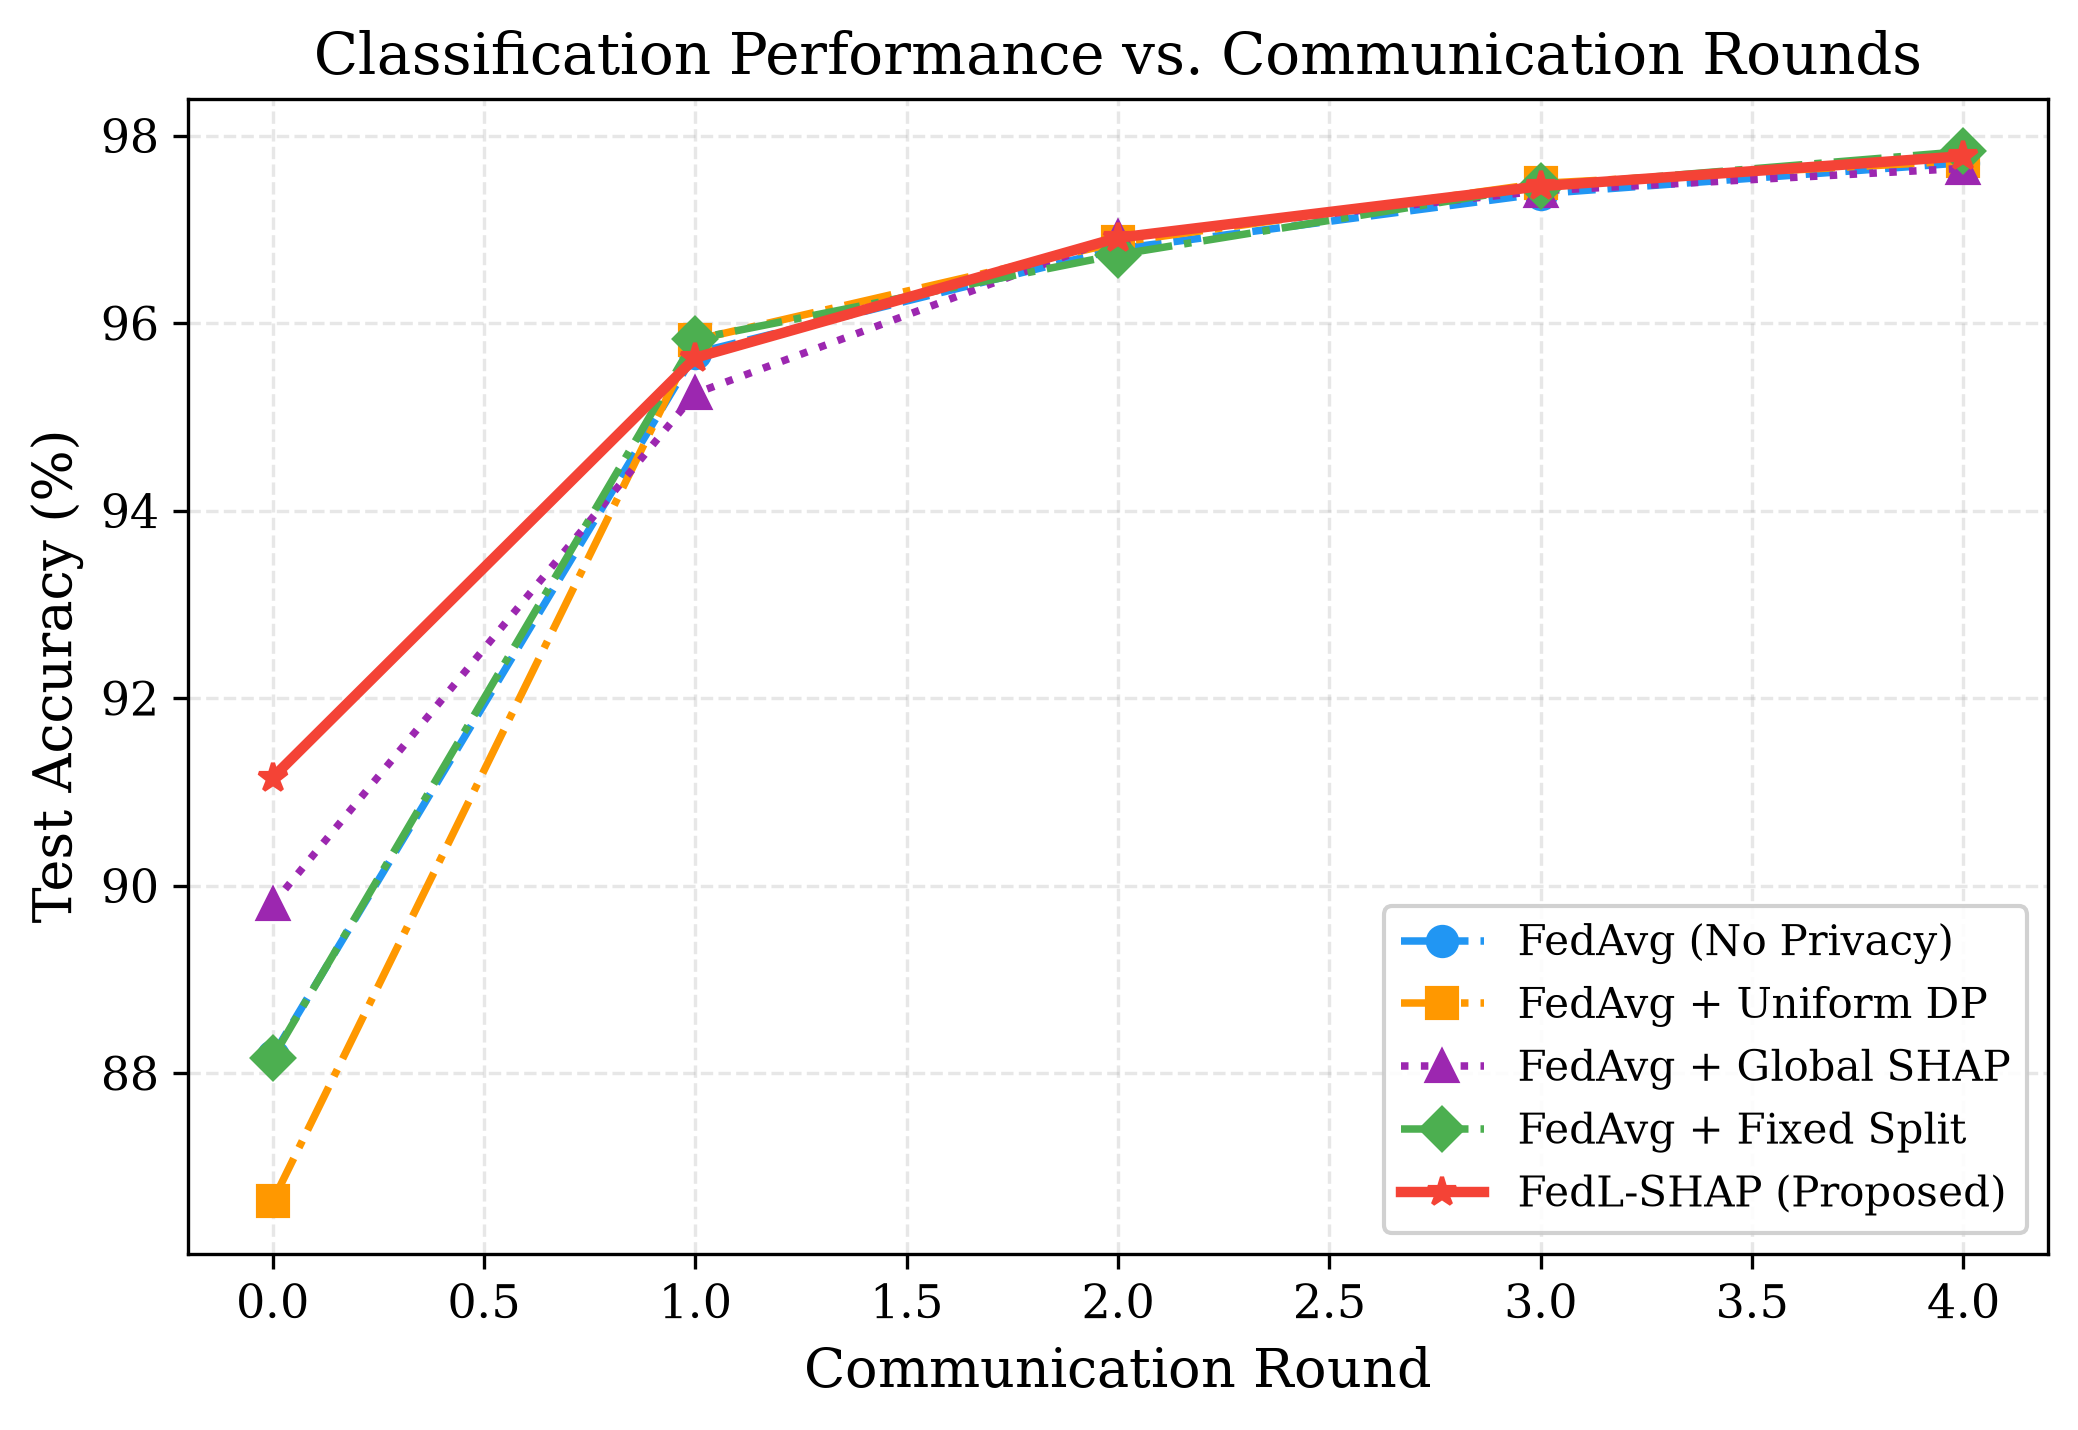
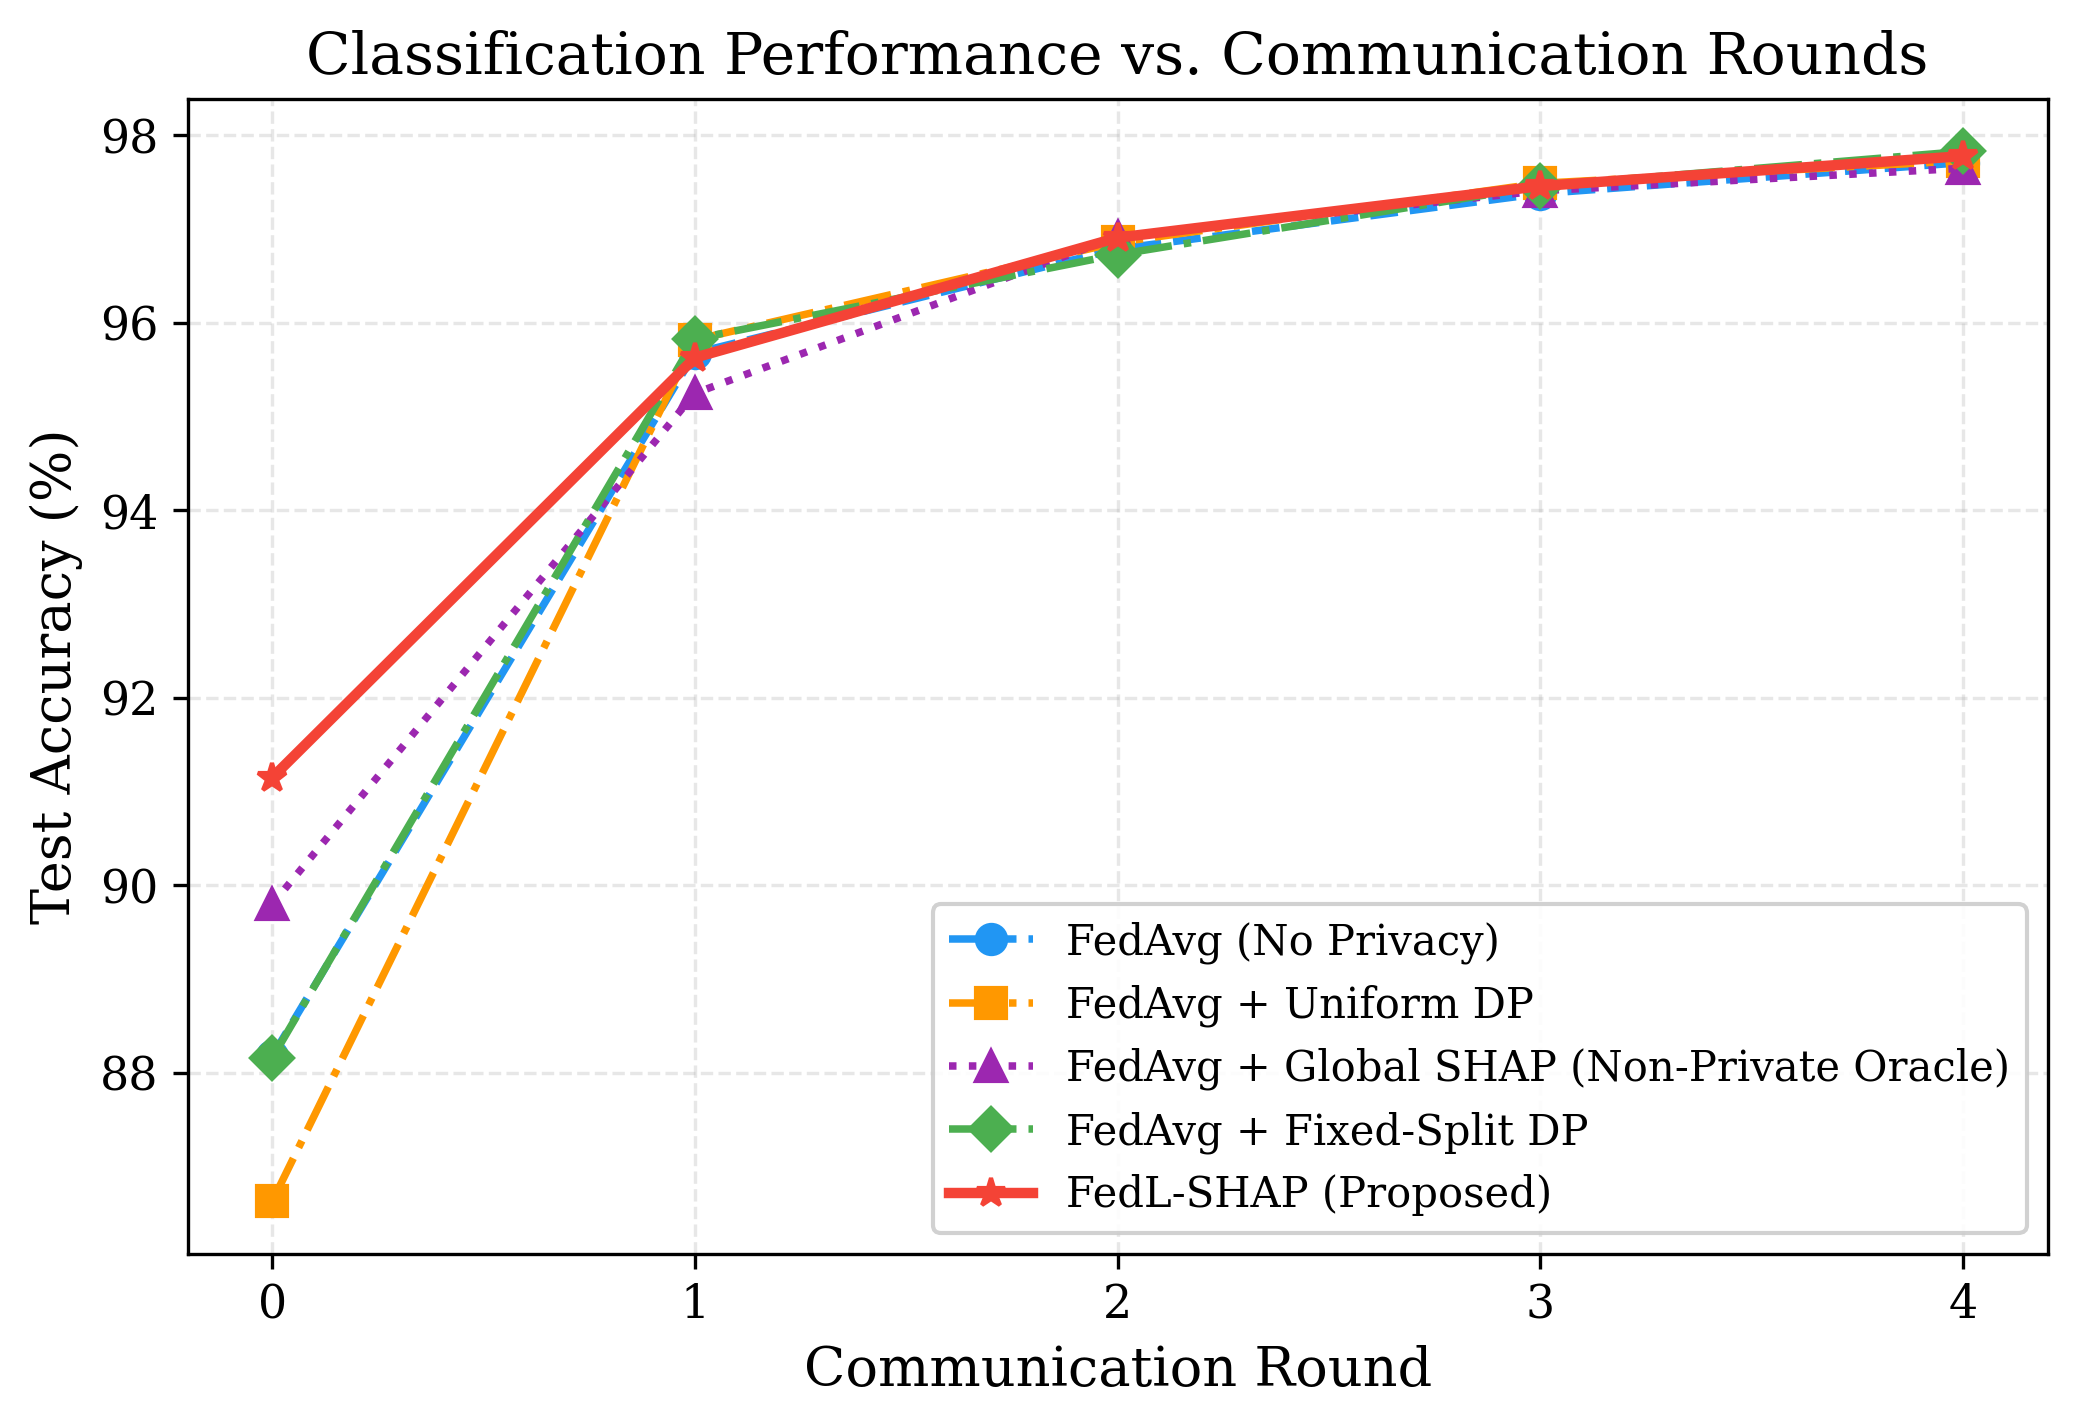
fix: resolve 7 critical experiment and visualization bugs
- privacy.py: Add two-level epsilon floor (relative + absolute) to
  dynamic_epsilon_split() to prevent catastrophic noise at low ε (e.g.
  ε=2 caused accuracy to collapse to 66%). min_eps now uses
  max(1% of ε_t, min(0.5, 10% of ε_t)) before renormalization.

- config.py: Fix get_quick_test_config() to include λ=2.0 (default) in
  lambda_values sweep — absence caused Fig5 left panel to be blank.
  Also expanded epsilon_values to [2.0, 5.0, 8.0, 20.0] for richer
  Pareto frontier and malicious_fractions to [0.0, 0.1, 0.2, 0.3]
  for more Byzantine resilience data points.

- run_experiments.py: Fix shap_top_k_agreement always returning 0.000
  for MNIST. Use k=10 for 784-dim MNIST data (was k=5 which is too
  strict for high-dimensional pixel-space SHAP vectors).

- visualization.py: Fix Fig5 left panel blank — add fallback key
  selection when default lambda_2.0 is not present in schedule JSON.
  Fix title to display actual key used instead of hardcoded config value.
  Label FedAvg+GlobalSHAP as Non-Private Oracle in METHOD_NAMES and
  update Fig3 title to clarify privacy status of each method.
  Fix Fig2 x-axis to show integer round ticks via MaxNLocator.

- results/plots: Regenerated all 8 IEEE figures with fixes applied.

diff --git a/visualization.py b/visualization.py
@@ -18,6 +18,7 @@ import glob
 import numpy as np
 import pandas as pd
 import matplotlib
+import matplotlib.ticker
 matplotlib.use("Agg")  # Non-interactive backend
 import matplotlib.pyplot as plt
 import seaborn as sns
@@ -54,8 +55,8 @@ def setup_plot_style():
 METHOD_NAMES = {
     "fedavg": "FedAvg (No Privacy)",
     "fedavg_uniform_dp": "FedAvg + Uniform DP",
-    "fedavg_global_shap": "FedAvg + Global SHAP",
-    "fedavg_fixed_split": "FedAvg + Fixed Split",
+    "fedavg_global_shap": "FedAvg + Global SHAP (Non-Private Oracle)",  # not a DP-constrained method
+    "fedavg_fixed_split": "FedAvg + Fixed-Split DP",
     "fedl_shap": "FedL-SHAP (Proposed)",
 }
 
@@ -131,6 +132,7 @@ def plot_accuracy_vs_rounds(csv_dir: str, plots_dir: str):
     ax.set_title("Classification Performance vs. Communication Rounds")
     ax.legend(loc="lower right", framealpha=0.9)
     ax.grid(True)
+    ax.xaxis.set_major_locator(matplotlib.ticker.MaxNLocator(integer=True))  # integer round ticks
 
     filepath = os.path.join(plots_dir, "fig2_accuracy_vs_rounds.png")
     fig.savefig(filepath)
@@ -172,7 +174,10 @@ def plot_shap_similarity_vs_rounds(csv_dir: str, plots_dir: str):
 
     ax.set_xlabel("Communication Round")
     ax.set_ylabel("SHAP Cosine Similarity")
-    ax.set_title("Explanation Fidelity vs. Communication Rounds")
+    ax.set_title(
+        "Explanation Fidelity vs. Communication Rounds\n"
+        "(Global SHAP = non-private oracle; Fixed-Split & FedL-SHAP apply DP)"
+    )
     ax.set_ylim(-0.1, 1.1)
     ax.legend(loc="lower right", framealpha=0.9)
     ax.grid(True)
@@ -266,12 +271,16 @@ def plot_dynamic_budget(csv_dir: str, plots_dir: str, cfg: ExperimentConfig):
 
     fig, (ax1, ax2) = plt.subplots(1, 2, figsize=(14, 5))
 
-    # Left: ε_w and ε_s for the default λ
+    # Left: ε_w and ε_s for the default λ.
+    # Fall back to the first available key if the default (λ=2.0) was not swept.
     default_key = f"lambda_{cfg.privacy.lambda_decay}"
+    if default_key not in schedule_data and schedule_data:
+        default_key = sorted(schedule_data.keys())[0]
     if default_key in schedule_data:
         eps_w = schedule_data[default_key]["epsilon_w"]
         eps_s = schedule_data[default_key]["epsilon_s"]
         rounds = list(range(len(eps_w)))
+        lam_label = default_key.replace("lambda_", "")  # e.g. "2.0"
 
         ax1.plot(rounds, eps_w, label="ε_w (Weights)", color="#2196F3", linewidth=2.5)
         ax1.plot(rounds, eps_s, label="ε_s (SHAP)", color="#F44336", linewidth=2.5)
@@ -281,7 +290,7 @@ def plot_dynamic_budget(csv_dir: str, plots_dir: str, cfg: ExperimentConfig):
                      label="50/50 Split")
         ax1.set_xlabel("Communication Round")
         ax1.set_ylabel("Privacy Budget (ε)")
-        ax1.set_title(f"Dynamic ε-Decoupling (λ = {cfg.privacy.lambda_decay})")
+        ax1.set_title(f"Dynamic ε-Decoupling (λ = {lam_label})")  # uses actual key, not hardcoded
         ax1.legend(framealpha=0.9)
         ax1.grid(True)
 

diff --git a/privacy.py b/privacy.py
@@ -101,12 +101,16 @@ def dynamic_epsilon_split(
     epsilon_w = epsilon_t * decay
     epsilon_s = epsilon_t * (1.0 - decay)
 
-    # Ensure neither budget is zero (avoid division by zero in sigma computation)
-    min_eps = epsilon_t * 0.01  # Floor at 1% of total budget
+    # Two-level floor: prevents catastrophic noise (σ_w blowing up) when ε is very small.
+    # Relative floor: at least 1% of total budget.
+    # Absolute floor: at least min(0.5, 10% of total ε) — critical for ε≤5 regimes.
+    rel_floor = epsilon_t * 0.01
+    abs_floor = min(0.5, epsilon_t * 0.10)
+    min_eps = max(rel_floor, abs_floor)
     epsilon_w = max(epsilon_w, min_eps)
     epsilon_s = max(epsilon_s, min_eps)
 
-    # Renormalize to sum to epsilon_t
+    # Renormalize to sum exactly to epsilon_t
     total = epsilon_w + epsilon_s
     epsilon_w = epsilon_w * (epsilon_t / total)
     epsilon_s = epsilon_s * (epsilon_t / total)

diff --git a/config.py b/config.py
@@ -106,9 +106,9 @@ def get_quick_test_config() -> ExperimentConfig:
     cfg.federated.local_epochs = 1             # Single epoch for speed
     cfg.federated.batch_size = 128             # Larger batches = fewer iterations
     cfg.data.num_shap_samples = 50
-    cfg.privacy.epsilon_values = [2.0, 8.0]
-    cfg.privacy.lambda_values = [1.0, 3.0]
-    cfg.byzantine.malicious_fractions = [0.0, 0.2]
+    cfg.privacy.epsilon_values = [2.0, 5.0, 8.0, 20.0]       # richer Pareto sweep (was [2.0, 8.0])
+    cfg.privacy.lambda_values = [1.0, 2.0, 3.0]               # includes default λ=2.0 → fixes Fig5 blank panel
+    cfg.byzantine.malicious_fractions = [0.0, 0.1, 0.2, 0.3]  # more fractions → fixes Fig8 (was [0.0, 0.2])
     return cfg
 
 

diff --git a/run_experiments.py b/run_experiments.py
@@ -344,7 +344,9 @@ def run_federated(
         cos_sim = topk = mse = spearman = 0.0
         if global_shap is not None and ground_truth_shap is not None:
             cos_sim = shap_cosine_similarity(global_shap, ground_truth_shap)
-            topk = shap_top_k_agreement(global_shap, ground_truth_shap, k=5)
+            # k=10 for high-dim MNIST (784-dim); k=5 for low-dim creditcard (29-dim)
+            k_topk = 10 if dataset_name == "mnist" else 5
+            topk = shap_top_k_agreement(global_shap, ground_truth_shap, k=k_topk)
             mse = shap_mse(global_shap, ground_truth_shap)
             spearman = shap_spearman_rank(global_shap, ground_truth_shap)
 
